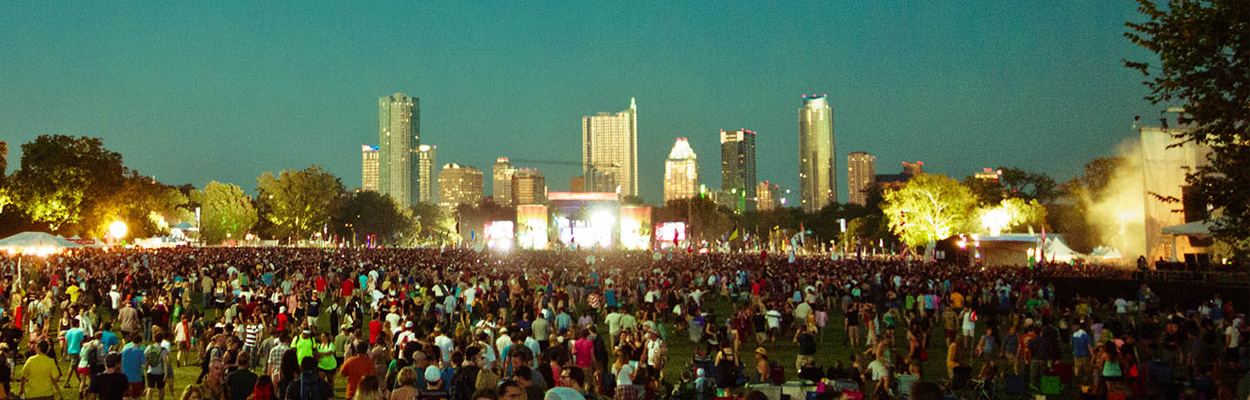
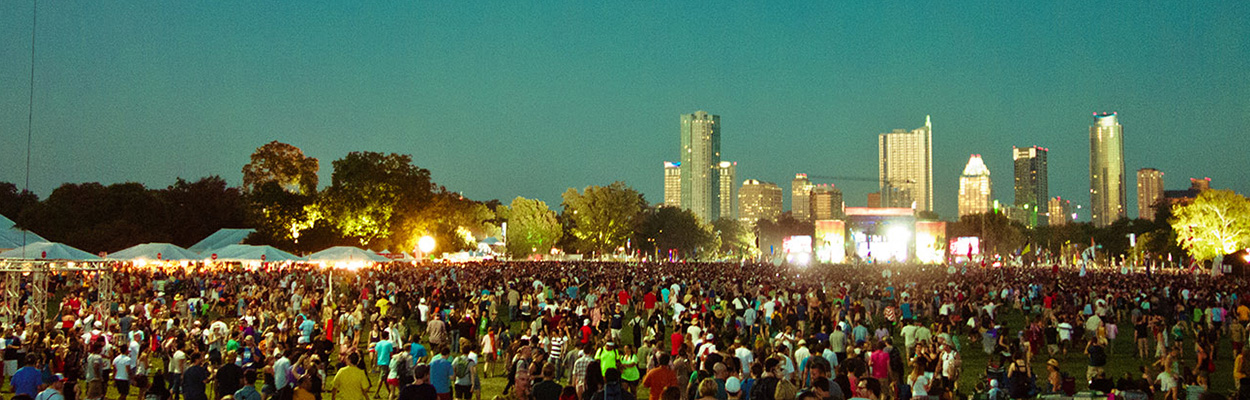
cosmetic home page changes

diff --git a/app/assets/stylesheets/custom1.css b/app/assets/stylesheets/custom1.css
@@ -207,7 +207,7 @@ h1, h2, h4{color:#4C334E;}
 }
 .banner-slider .caroufredsel_wrapper {
   margin: 0 auto !important;
-height:404px !important;
+height:304px !important;
 }
 .banner-slider .item {
   display: block;
@@ -226,7 +226,7 @@ height:404px !important;
   background: none repeat scroll 0 0 rgba(0, 0, 0, 0);
   color: #FFFFFF;
   text-align: center;
-  top: 19%;
+  top: 5%;
 }
 .carousel-caption h1 {
   color: #FFFFFF;

diff --git a/app/assets/stylesheets/custom.css b/app/assets/stylesheets/custom.css
@@ -195,7 +195,7 @@ h2{font-size:345%;}
 	text-align:center;
 }
 .carousel-caption {
-	top:19%;
+	top:5%;
 	text-align:center;
 	background:transparent;
 	color:#fff;
